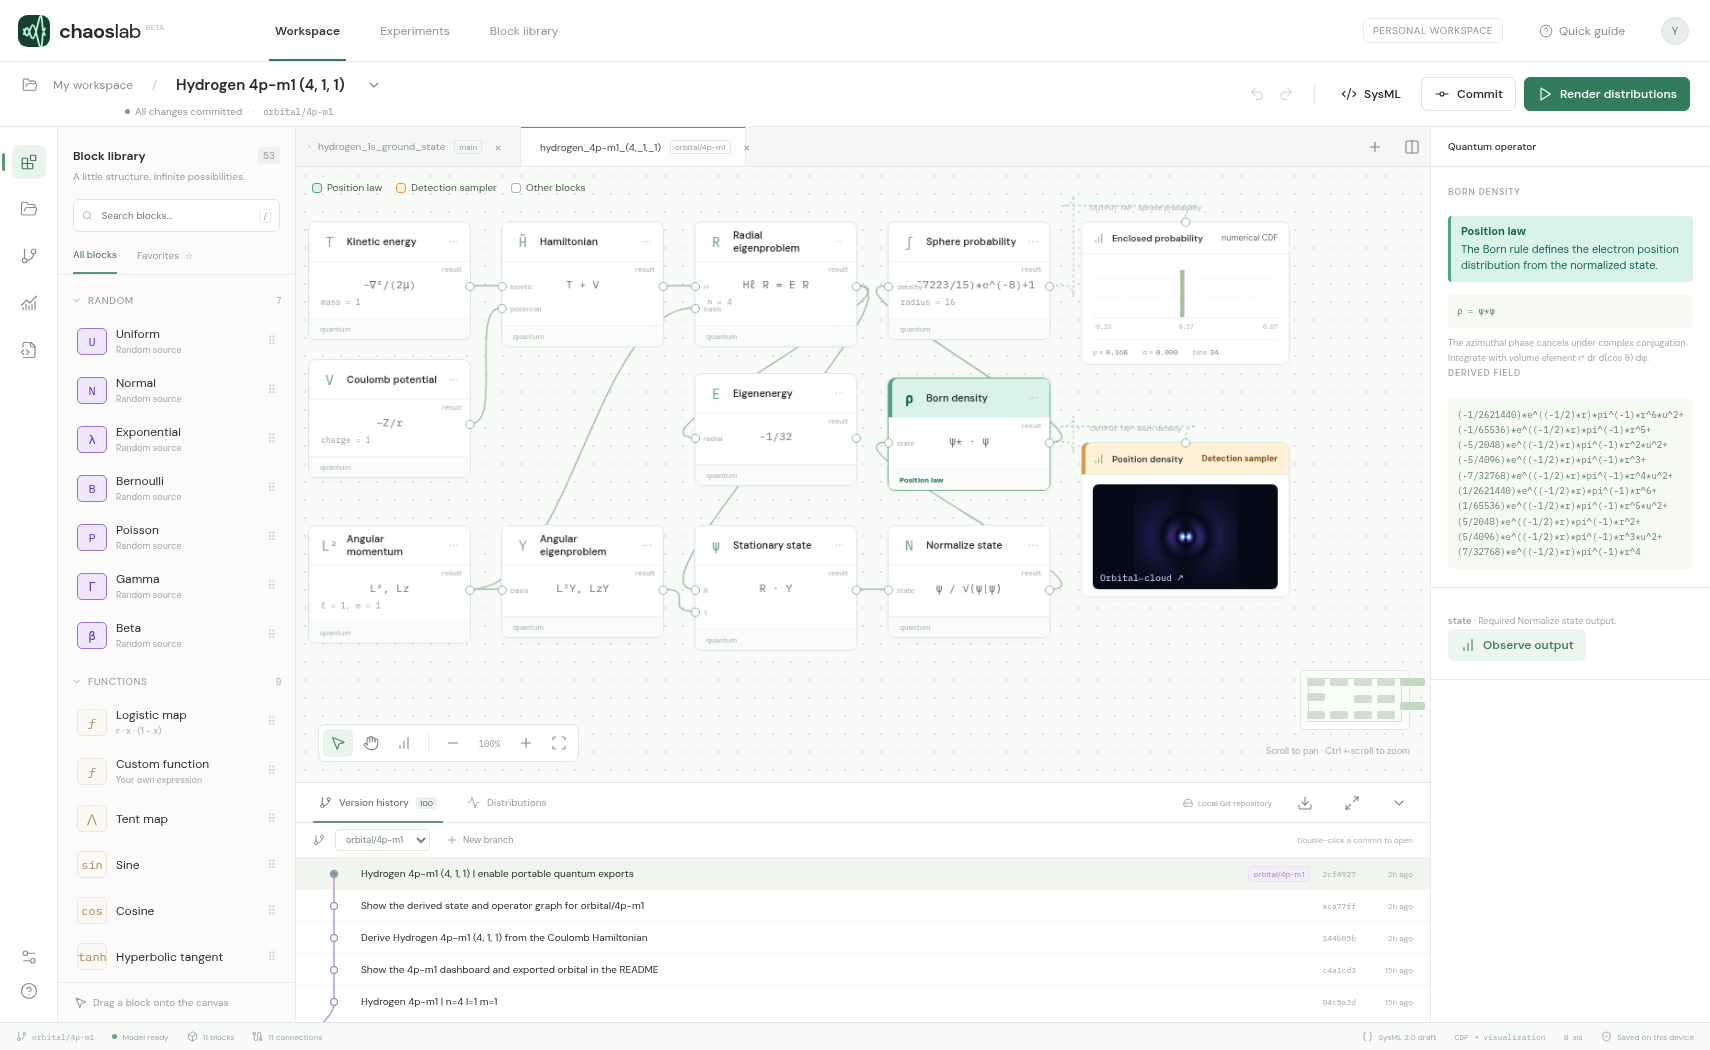
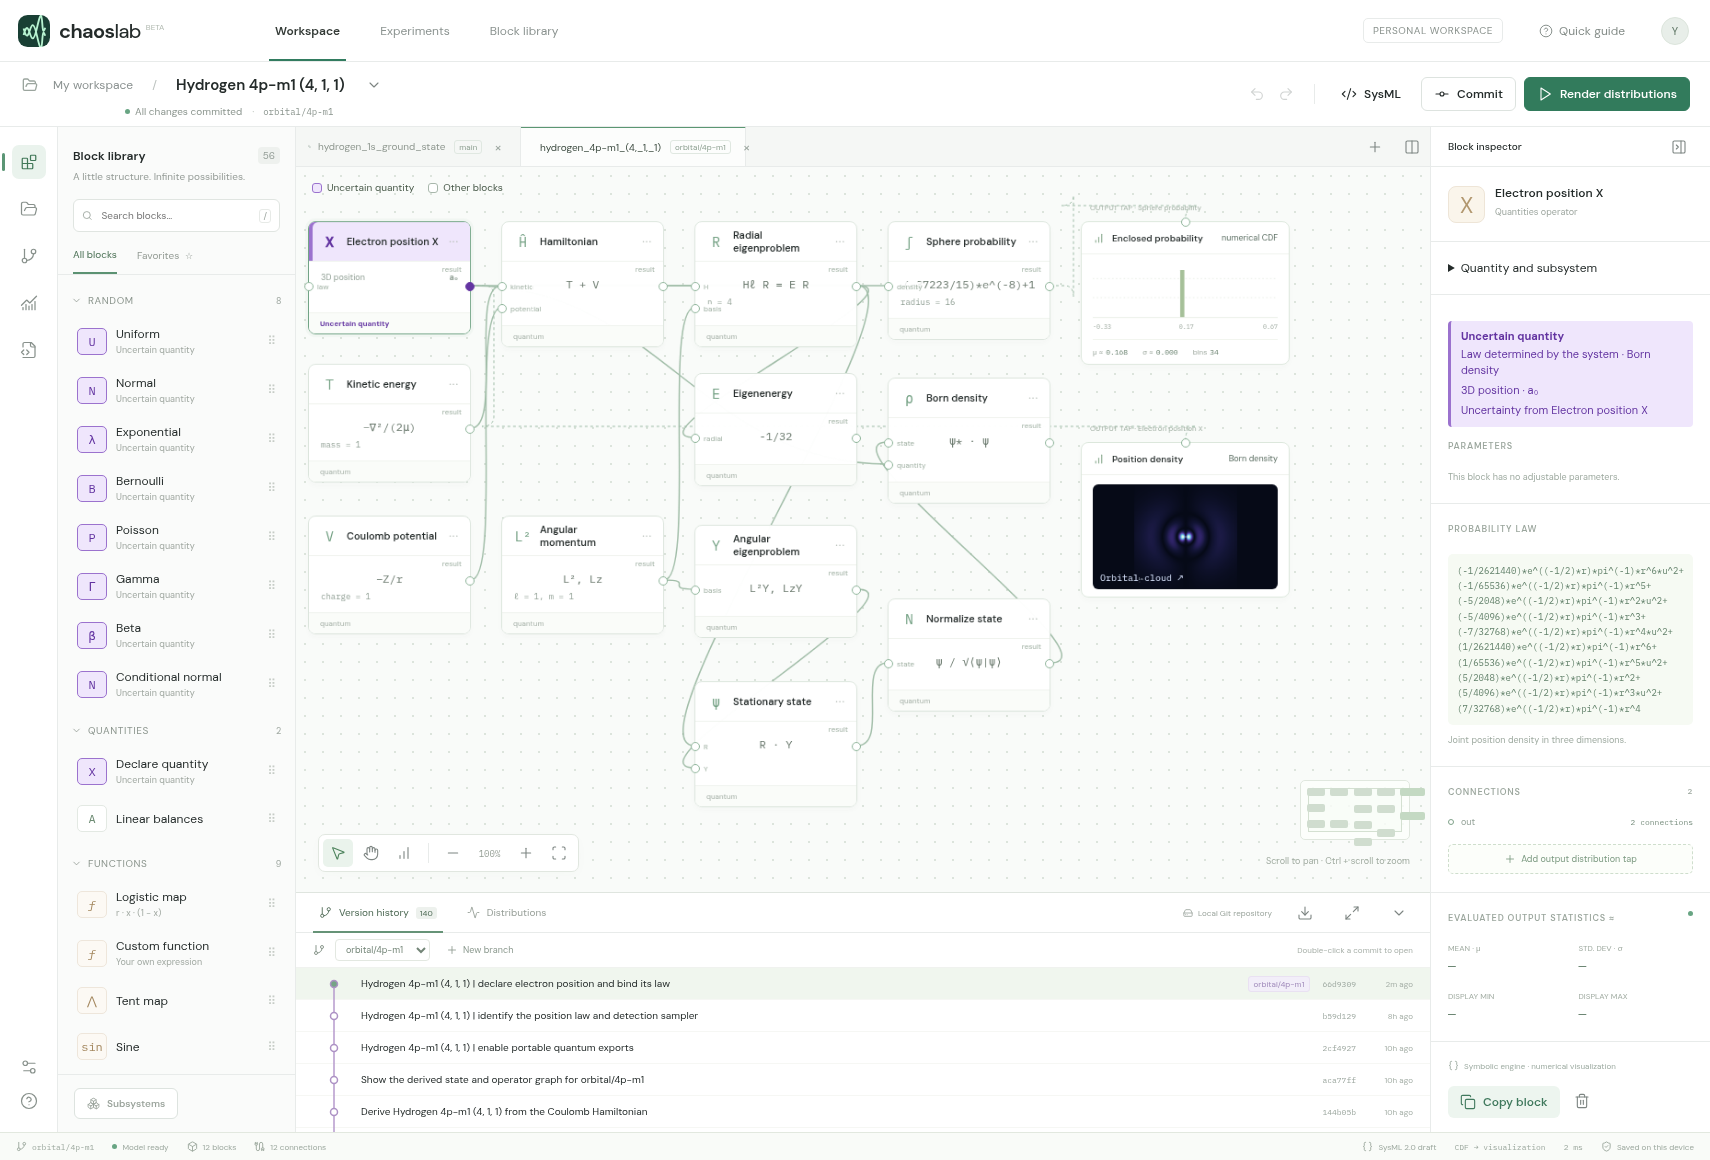
Show the position declaration and its law provider for orbital/4p-m1

diff --git a/studio.py b/studio.py
@@ -10,7 +10,7 @@ import tempfile
 import webbrowser
 
 ROOT = Path(__file__).resolve().parent
-STUDIO_REV = "5cbb600c6ee5baa24d159ddc6c974d68eb68f653"
+STUDIO_REV = "515ba96842af71b90f41019a508548a96e802665"
 STUDIO_REPO = "https://github.com/wa200508/chaos_lab.git"
 
 

diff --git a/README.md b/README.md
@@ -6,7 +6,7 @@ Open **Version history** in Chaos Lab to explore the 20 hydrogen designs in this
 
 The connected Hamiltonian and eigenstate solvers give $E=-1/32$ Hartree for this state.
 
-The purple **Electron position X** block declares the three-dimensional quantity in Bohr radii. Open its inspector to see **Born density** as its law provider. The sphere measurement and spatial tap both observe X. Projected detections draw from the final law; the central slice evaluates the density directly.
+The purple **Electron position X** block declares the three-dimensional quantity in Bohr radii. Open its inspector to see **Born density** as its law provider. The sphere measurement and spatial tap both observe X. Projected detections draw from the final law. The central slice evaluates the density directly.
 
 ![Chaos Lab dashboard with the 4p model, m = 1, open in version history](dashboard.png)
 
